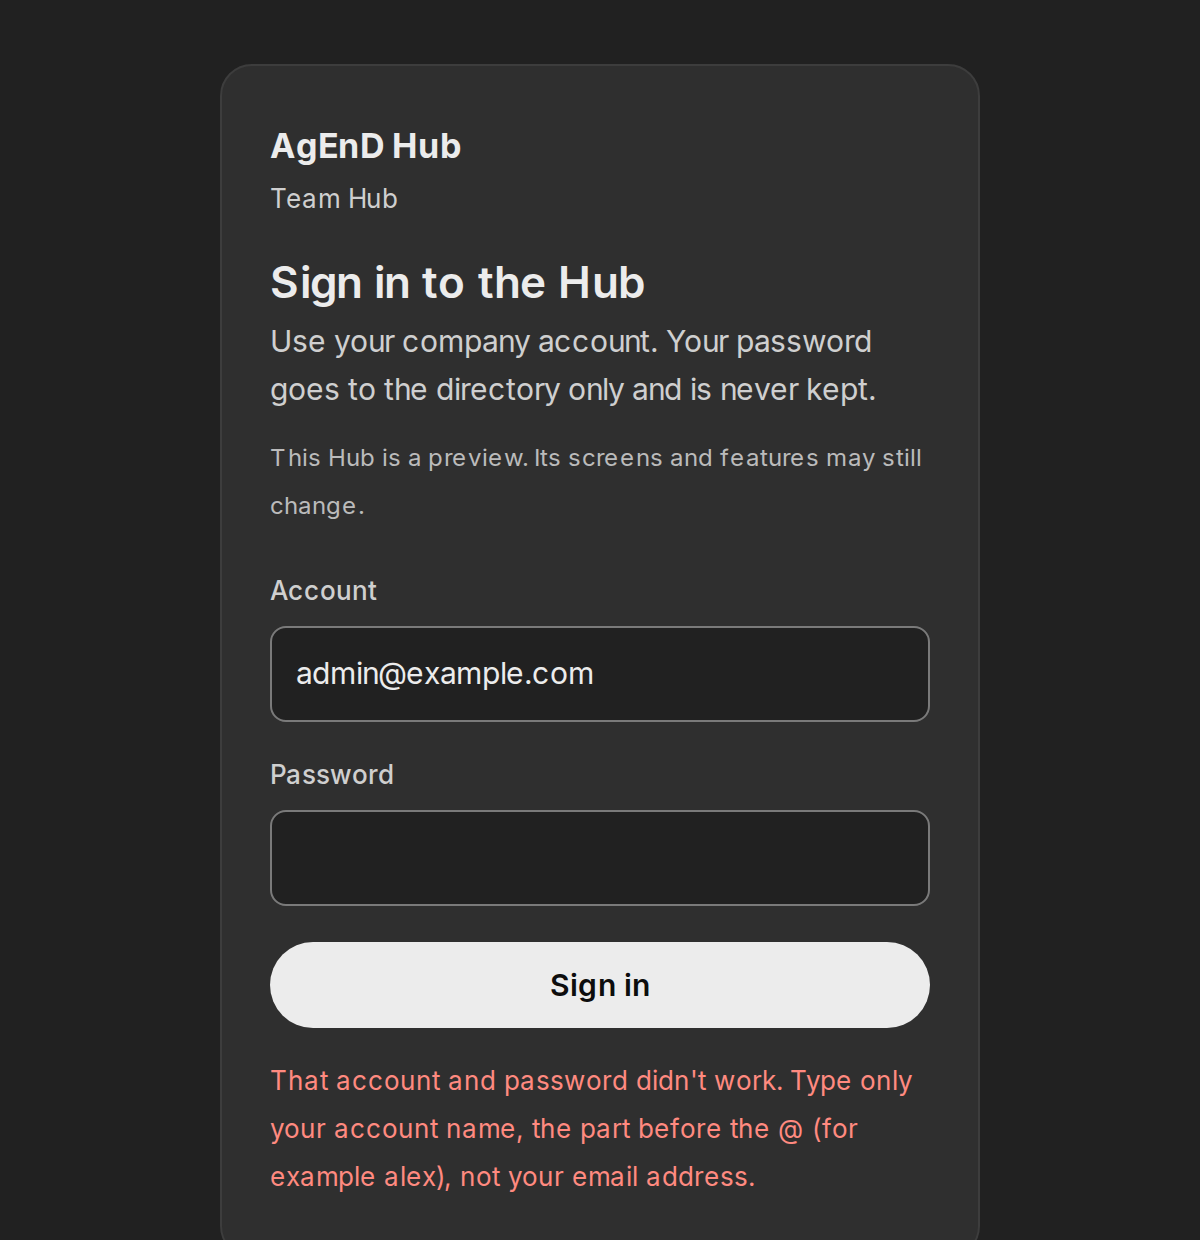
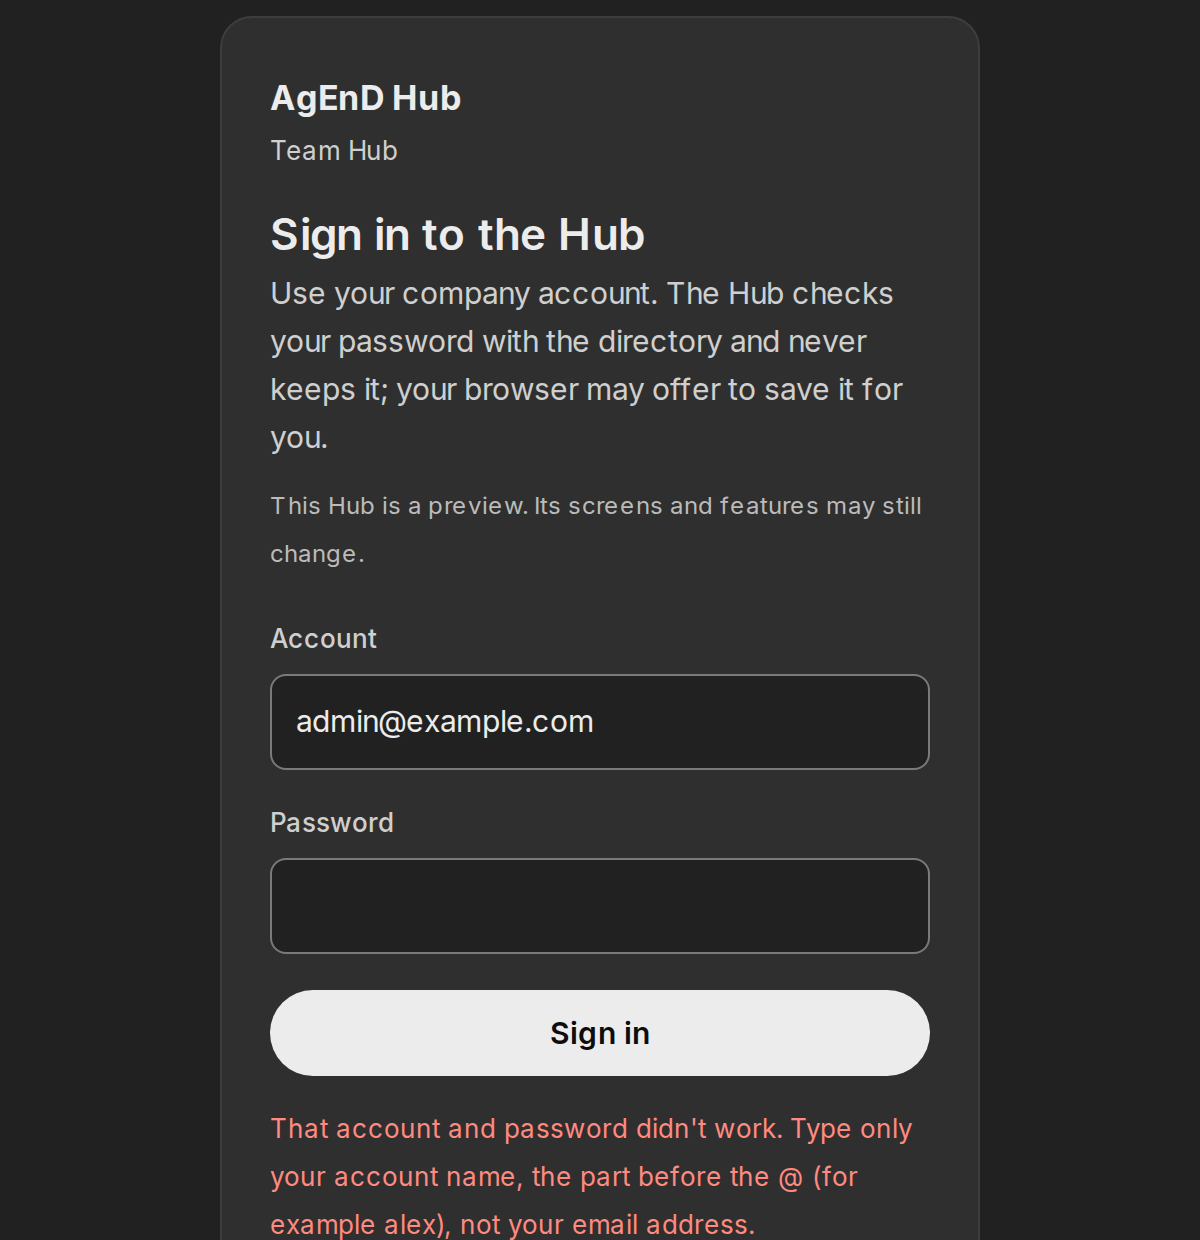
docs(evidence): M-3563 re-captured: the @ advice on an AD Hub only, the new lead (#4386 review)

Changed region(s): [[0.2158, 0.0613, 0.7708, 0.6742], [0.2158, 0.7355, 0.7708, 1.0]]

diff --git a/docs/evidence/hub-signin-autofill-m3563/README.md b/docs/evidence/hub-signin-autofill-m3563/README.md
@@ -7,8 +7,10 @@ page hands the browser's password manager; headless Chrome has `PasswordCredenti
 | | Before | After |
 |---|---|---|
 | 帳號 / 密碼 fields | `autocomplete` only, no `name` | `name="username"` / `name="password"`, `autocomplete` username / current-password |
-| sign-in refused for `admin@example.com` | 「帳號或密碼不正確。」 | 「帳號或密碼不正確。帳號只要填 @ 前面的部分（例如 alex），不是電子郵件地址。」 |
+| sign-in refused for `admin@example.com`, a Hub signing in by sAMAccountName (`data-hub-login="no-at"`) | 「帳號或密碼不正確。」 | 「帳號或密碼不正確。帳號只要填 @ 前面的部分（例如 alex），不是電子郵件地址。」 |
+| the same, a Hub whose account may hold an "@" (userPrincipalName, mail: no mark) | 「帳號或密碼不正確。」 | 「帳號或密碼不正確。」 (`*-after-upn-*`) |
+| the lead | 「…密碼只送給目錄服務驗證，不會被保存。」 | 「…Hub 只把密碼送給目錄服務驗證，不會保存；你的瀏覽器可能會詢問是否幫你記住。」 |
 | sign-in that works, as `admin` | nothing handed to the password manager | one password credential, id `admin` (exactly as typed) |
 
-Pictures: `*-1-at-hint.png` (the refused `admin@example.com`). That Chrome / Edge then offers the saved Hub login
+Pictures: `*-1-at-hint.png` (the refused `admin@example.com`; `*-after-upn-*`: the Hub without the mark). That Chrome / Edge then offers the saved Hub login
 instead of the email from its saved personal info can only be seen in the person's own browser, after one sign-in.
